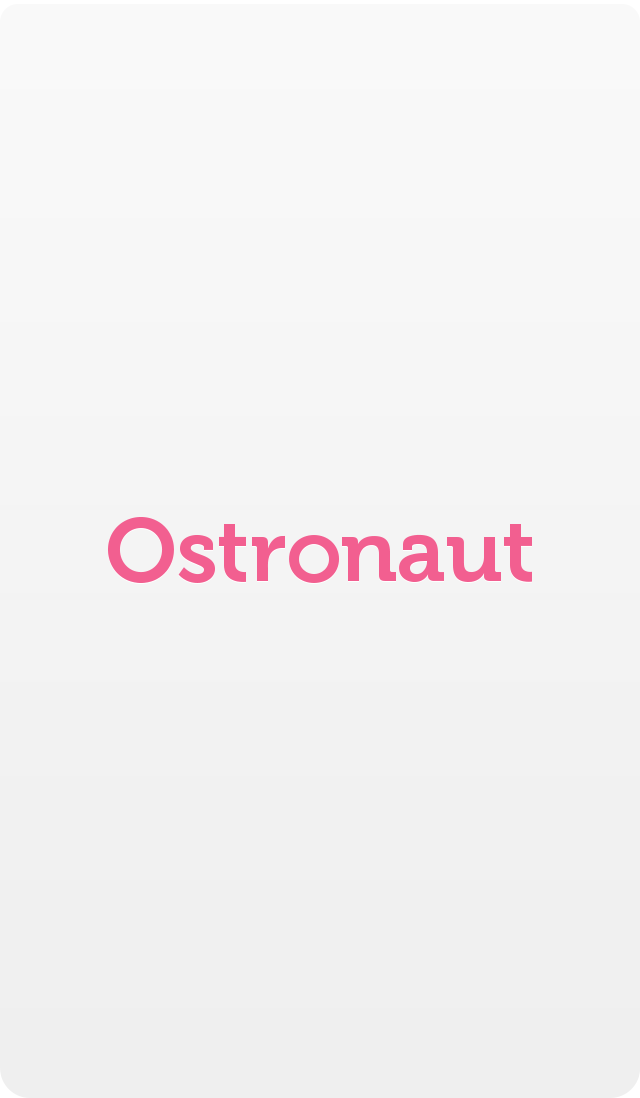
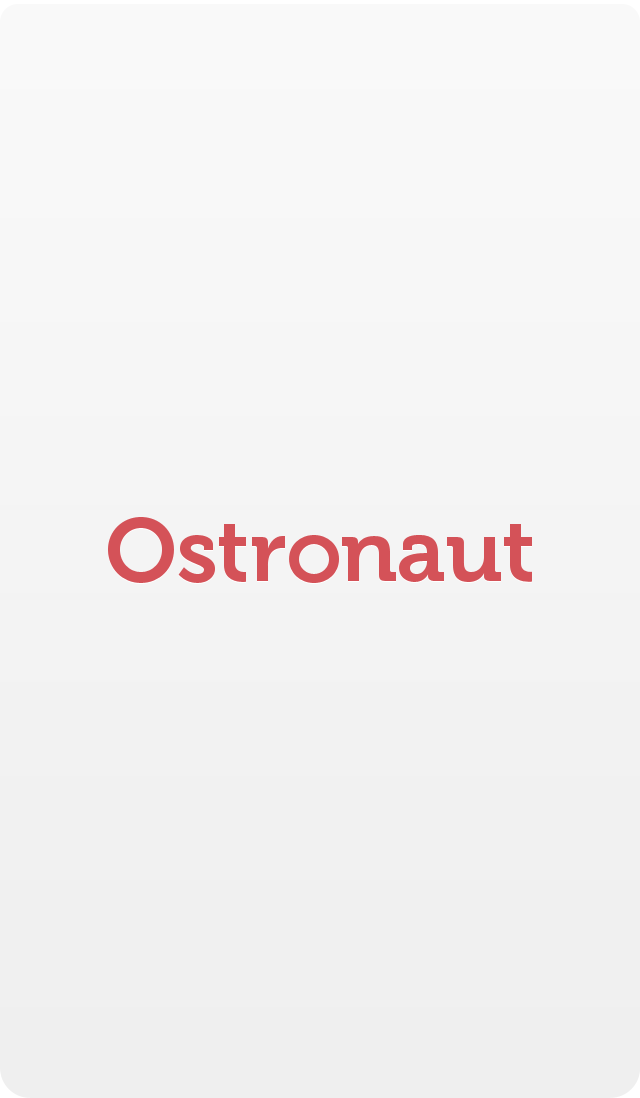
lots of new assets, remove more dead files, update splash screen

Changed region(s): [[0.1562, 0.4645, 0.8438, 0.5574]]

diff --git a/ios/social/PhotoNewViewController.m b/ios/social/PhotoNewViewController.m
@@ -629,30 +629,27 @@ NSString * const kOstronautFrameType8 = @"frame-08.png";
     UIImage *fromLibaryPhoto = [UIImage imageNamed:@"library.png"];
     UIImage *acceptPhoto = [UIImage imageNamed:@"photo-accept.png"];
     UIImage *rejectPhoto = [UIImage imageNamed:@"photo-reject.png"];
-    UIImage *filtersOffPhoto = [UIImage imageNamed:@"switch-filters-off.png"];
-    UIImage *filtersOnPhoto = [UIImage imageNamed:@"switch-filters-on.png"];
+    UIImage *closePhoto = [UIImage imageNamed:@"close.png"];
     UIImage *takePicturePhoto = [UIImage imageNamed:@"camera.png"];
     
     fromLibrary = [UIBarButtonItem barItemWithImage:fromLibaryPhoto target:self action:@selector(pictureFromLibrary:)];
     accept = [UIBarButtonItem barItemWithImage:acceptPhoto target:self action:@selector(didSave:)];
     reject = [UIBarButtonItem barItemWithImage:rejectPhoto target:self action:@selector(setupInitialCameraState:)];
-    hideFilters = [UIBarButtonItem barItemWithImage:filtersOffPhoto target:self action:@selector(didHideFilters:)];
-    showFilters = [UIBarButtonItem barItemWithImage:filtersOnPhoto target:self action:@selector(didHideFilters:)];
+    close = [UIBarButtonItem barItemWithImage:closePhoto target:self action:@selector(dismissModal:)];
     takePicture = [UIBarButtonItem barItemWithImage:takePicturePhoto target:self action:@selector(didTakePicture:)];
     fixed = [[UIBarButtonItem alloc] initWithBarButtonSystemItem:UIBarButtonSystemItemFixedSpace target:nil action:nil];
 }
 
 - (void)acceptOrRejectToolbar {
     fixed.width = 90;
-    self.toolBar.items = [NSArray arrayWithObjects:fromLibrary, fixed, reject, accept, fixed, hideFilters, nil];
+    self.toolBar.items = [NSArray arrayWithObjects:fromLibrary, fixed, reject, accept, fixed, close, nil];
     self.cameraControlsView.hidden = YES;
     self.flashOnButton.hidden = self.autoFlashButton.hidden = self.noFlashButton.hidden = YES;
 }
 
 - (void)standardToolbar {
-    fixed.width = 105;
-    
-    self.toolBar.items = [NSArray arrayWithObjects:fromLibrary, fixed, takePicture, fixed, hideFilters, nil];
+    fixed.width = 65;
+    self.toolBar.items = [NSArray arrayWithObjects:fromLibrary, fixed, takePicture, fixed, close, nil];
     self.cameraControlsView.hidden = NO;
 }
 

diff --git a/ios/social/PhotoNewViewController.h b/ios/social/PhotoNewViewController.h
@@ -58,8 +58,7 @@ NSString * const kOstronautFrameType8;
     UIBarButtonItem *fromLibrary;
     UIBarButtonItem *accept;
     UIBarButtonItem *reject;
-    UIBarButtonItem *showFilters;
-    UIBarButtonItem *hideFilters;
+    UIBarButtonItem *close;
     UIBarButtonItem *fixed;
     UIBarButtonItem *takePicture;
 }
